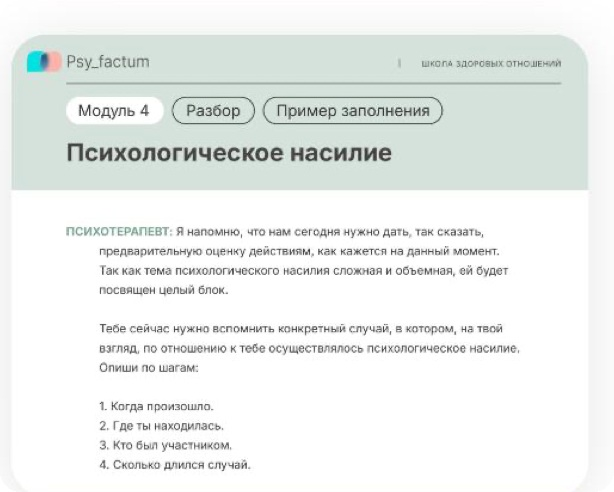
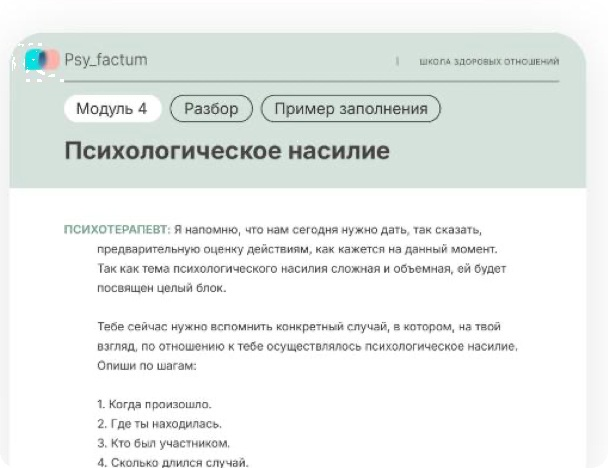
Cut the leftover Telegram bubble off the worksheet picture.

Changed region(s): [[0.0, 0.0897, 0.9688, 0.4188], [0.1562, 0.6581, 0.8438, 1.0], [0.0938, 0.4487, 0.8438, 0.6282]]

diff --git a/predzapis.html b/predzapis.html
@@ -1,7 +1,7 @@
 <!doctype html>
-<!-- deploy: 2026-09-15-1534 -->
+<!-- deploy: 2026-09-15-1538 -->
 <!-- impeccable-disable single-font: Alifer GetCourse kit, Figtree only -->
-<html lang="ru" data-deploy="2026-09-15-1534" style="color-scheme:only light">
+<html lang="ru" data-deploy="2026-09-15-1538" style="color-scheme:only light">
 <head>
   <meta charset="utf-8">
   <meta name="viewport" content="width=device-width, initial-scale=1">
@@ -33,7 +33,7 @@
   <script>
     (function(){
       var stamp = document.documentElement.getAttribute("data-deploy");
-          fetch("predzapis.html?r=17&fresh=" + Date.now(), {cache:"no-store"})
+          fetch("predzapis.html?r=18&fresh=" + Date.now(), {cache:"no-store"})
         .then(function(r){ return r.text(); })
         .then(function(html){
           var m = html.match(/data-deploy="([^"]+)"/);
@@ -582,7 +582,7 @@
               <p class="upd-lead">В период с 2022 по 2026 год мы провели 232 терапевтических разбора в Школе здоровых отношений.</p>
               <div class="upd-visuals">
                 <img class="upd-phone-img" src="assets/upd-chat-phone.png" alt="Разбор в чате Школы здоровых отношений" width="728" height="1116">
-                <img class="upd-sheet-img" src="assets/upd-list.jpg" alt="Рабочий лист Психологическое насилие" width="614" height="492">
+                <img class="upd-sheet-img" src="assets/upd-list.jpg?v=2" alt="Рабочий лист Психологическое насилие" width="608" height="468">
               </div>
               <div class="upd-what">
                 <p>В них принимали участие разные люди с разными проблемами:</p>
